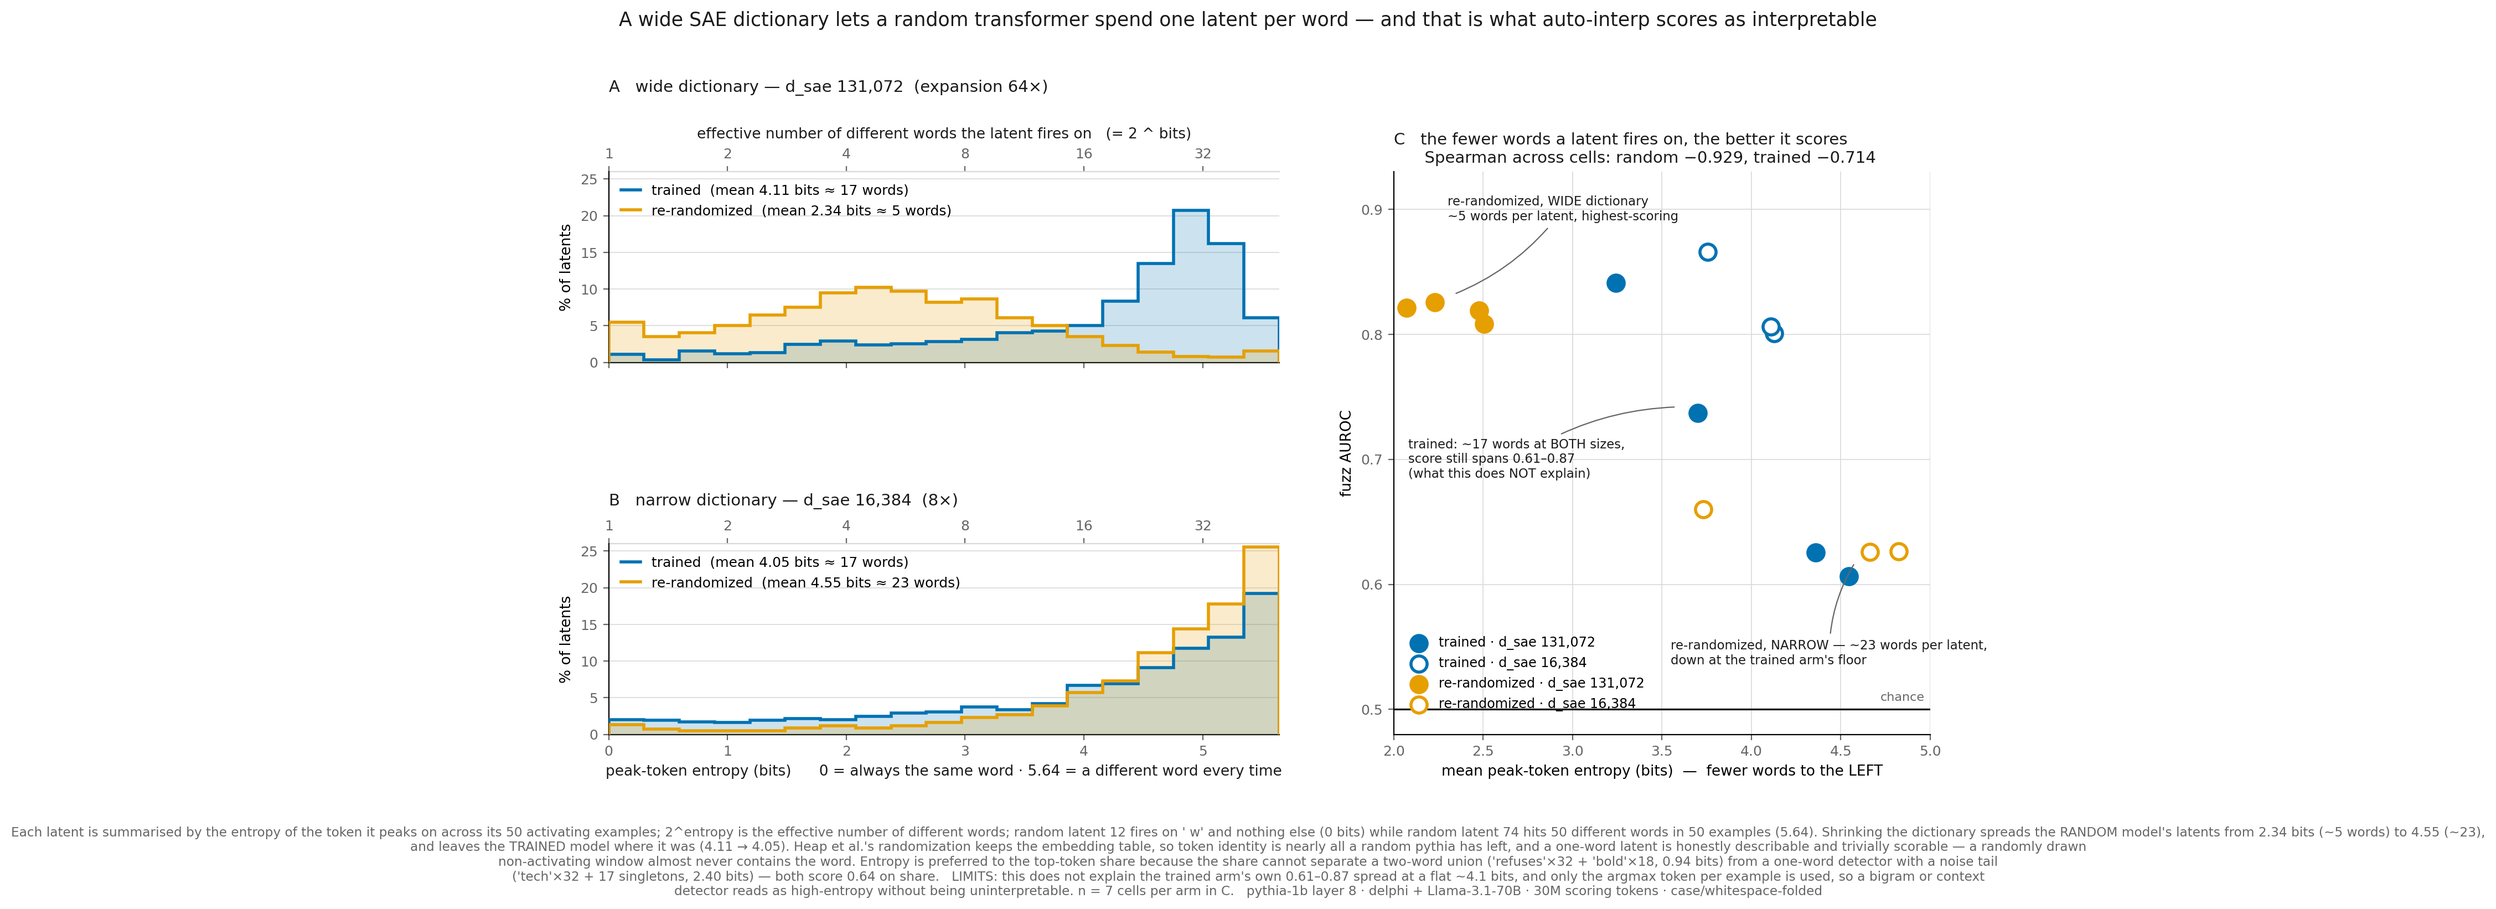
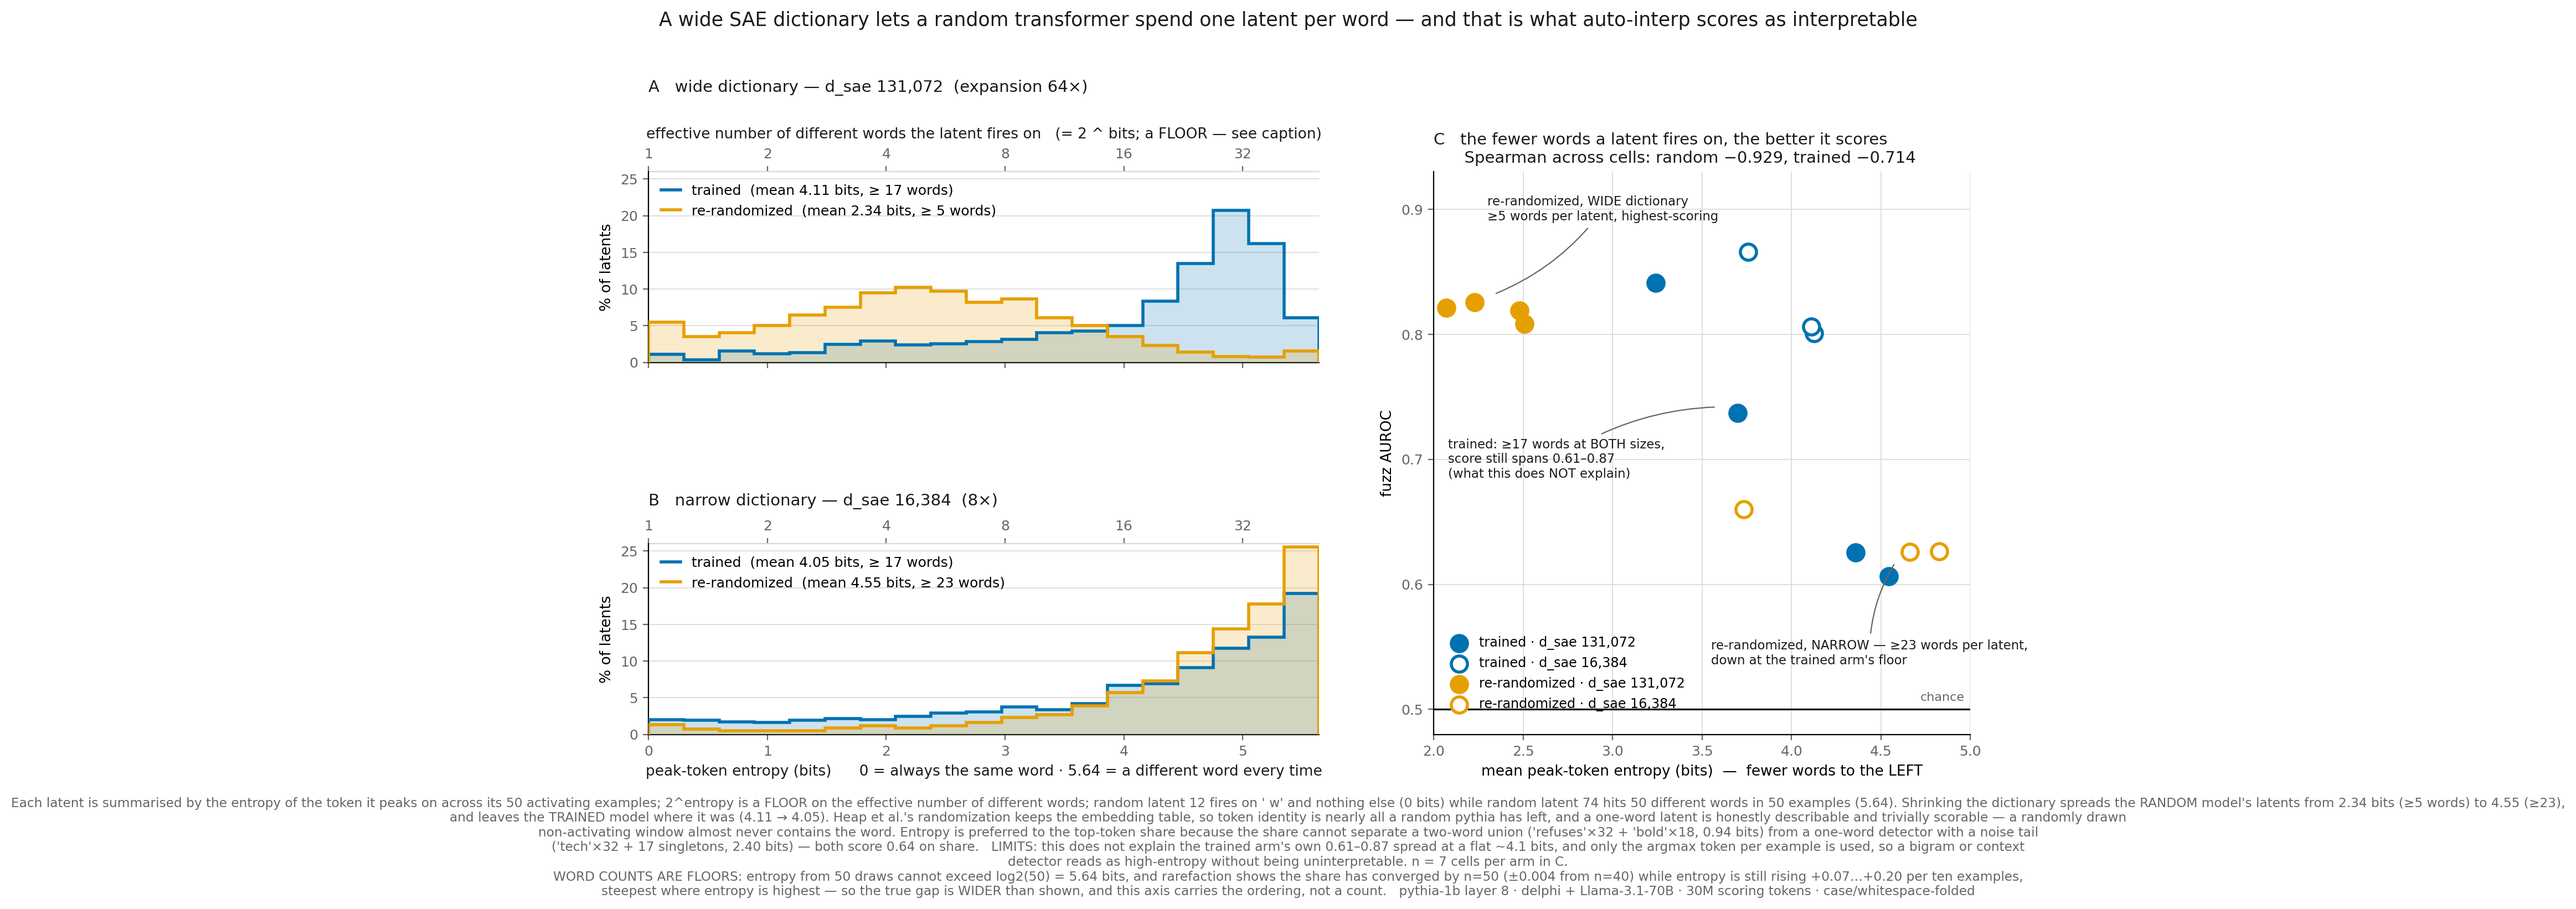
rarefaction: the share has converged at n=50, the entropy has not
Both statistics run on the 50 windows delphi sampled, not on all of a
latent's firings, and the two react to that very differently. Share is
biased UP for a scattered latent (the most common of 50 overstates the true
most common) but the bias dies fast. Entropy is biased DOWN and dies slowly,
because you cannot observe more distinct tokens than you have draws --
log2(50) = 5.64 bits is a hard ceiling whatever the truth is.

Recomputing each latent's statistic from a random n of its 50:

  share    +/-0.004 from n=40 to n=50 in all four blocks -- converged
  entropy  still +0.069 to +0.204 per ten examples, and steepest exactly
           where entropy is highest (rand 16,384 +0.204, rand 131,072 +0.069)

So 2**H is a FLOOR on the effective word count, loosest at the scattered
end. That biases AGAINST the result: the true 131,072-vs-16,384 entropy gap
is wider than the 2.34-to-4.55 measured. But it means the entropy axis
carries the ordering and must never be quoted as a count, and it is the
second reason the share is the safer headline.

plot_token_entropy.py now says "≥ N words" everywhere it said "≈ N words",
labels the top axis as a floor, and states the check in the caption.
token_purity.py gains the rarefaction table; peak-token extraction factored
into peak_pairs/peak_lists so the strength control and rarefaction share it.

diff --git a/SAE_linearmaps/randomized/pythia/plot_token_entropy.py b/SAE_linearmaps/randomized/pythia/plot_token_entropy.py
@@ -28,7 +28,16 @@ one-word latent is honestly describable and trivially scorable. Narrow the dicti
 no room, so its latents blur across ~23 unrelated words and the score falls. The trained model is
 unaffected because its latents were never word detectors.
 
-LIMITS, same as the share figure: this does not explain the TRAINED arm's own AUROC spread
+THE LIMIT THAT IS SPECIFIC TO ENTROPY, and the reason the share figure remains the headline.
+Entropy from 50 draws is biased DOWNWARD -- you can never see more distinct tokens than you have
+examples, so log2(50) = 5.64 bits is a hard ceiling whatever the truth is. Rarefaction (in
+token_purity.py) shows the share has converged by n=50, moving +/-0.004 from n=40, while entropy
+is still climbing +0.069 to +0.204 per ten examples and is steepest exactly where entropy is
+highest. So every word count here is a FLOOR, loosest at the scattered end. That biases AGAINST
+the result -- the true 131,072-vs-16,384 gap is wider than the 2.34-to-4.55 shown -- but it means
+the axis supports the ORDERING and must not be quoted as a count.
+
+LIMITS shared with the share figure: this does not explain the TRAINED arm's own AUROC spread
 (0.606-0.866 at a flat ~4.1 bits), and peak entropy only sees the argmax token per example, so a
 bigram or context detector reads as high-entropy without being uninterpretable.
 
@@ -75,7 +84,7 @@ for ax, dsae, tag, ty in (
         v = pooled(arm, dsae)
         m = sum(v) / len(v)
         ax.stairs(hist_pct(v), EDGES, color=ARM_COLOUR[arm], lw=2.0, zorder=4,
-                  label=f"{ARM_LABEL[arm]}  (mean {m:.2f} bits ≈ {2**m:.0f} words)")
+                  label=f"{ARM_LABEL[arm]}  (mean {m:.2f} bits, ≥ {2**m:.0f} words)")
         ax.stairs(hist_pct(v), EDGES, color=ARM_COLOUR[arm], fill=True, alpha=0.20, zorder=3)
     # Title placed by hand above the secondary axis and its label; set_title(pad=...) collided
     # with the suptitle once the top axis was added.
@@ -96,7 +105,7 @@ for ax, dsae, tag, ty in (
     top.tick_params(colors=MUTED)
     top.spines["top"].set_color(GRID)
     if ax is axA:
-        top.set_xlabel("effective number of different words the latent fires on   (= 2 ^ bits)",
+        top.set_xlabel("effective number of different words the latent fires on   (= 2 ^ bits; a FLOOR — see caption)",
                        fontsize=9.5, color=INK, labelpad=6)
 
 axB.set_xlabel("peak-token entropy (bits)      0 = always the same word · "
@@ -118,11 +127,11 @@ for x, y, arm, dsae in pts:
 LEAD = dict(arrowprops=dict(arrowstyle="-", color=MUTED, lw=0.8, shrinkA=2, shrinkB=6,
                             connectionstyle="arc3,rad=-0.15"))
 for tx, ty, ax_, ay_, txt, ha in (
-        (2.30, 0.900, 2.30, 0.830, "re-randomized, WIDE dictionary\n~5 words per latent, "
+        (2.30, 0.900, 2.30, 0.830, "re-randomized, WIDE dictionary\n≥5 words per latent, "
          "highest-scoring", "left"),
-        (3.55, 0.545, 4.60, 0.622, "re-randomized, NARROW — ~23 words per latent,\n"
+        (3.55, 0.545, 4.60, 0.622, "re-randomized, NARROW — ≥23 words per latent,\n"
          "down at the trained arm's floor", "left"),
-        (2.08, 0.700, 3.62, 0.742, "trained: ~17 words at BOTH sizes,\n"
+        (2.08, 0.700, 3.62, 0.742, "trained: ≥17 words at BOTH sizes,\n"
          "score still spans 0.61–0.87\n(what this does NOT explain)", "left")):
     axC.annotate(txt, xy=(ax_, ay_), xytext=(tx, ty), ha=ha, va="center",
                  fontsize=8.2, color=INK, zorder=6, **LEAD)
@@ -159,10 +168,10 @@ fig.suptitle("A wide SAE dictionary lets a random transformer spend one latent p
              fontsize=12.5, color=INK, y=1.10)
 fig.text(0.5, -0.11,
          f"Each latent is summarised by the entropy of the token it peaks on across its 50 "
-         f"activating examples; 2^entropy is the effective number of different words; random latent 12 fires on "
+         f"activating examples; 2^entropy is a FLOOR on the effective number of different words; random latent 12 fires on "
          f"' w' and nothing else (0 bits) while random latent 74 hits 50 different words in 50 examples (5.64). Shrinking "
-         f"the dictionary spreads the RANDOM model's latents from {hr:.2f} bits (~{2**hr:.0f} "
-         f"words) to {hr2:.2f} (~{2**hr2:.0f}),\nand leaves the TRAINED model where it was "
+         f"the dictionary spreads the RANDOM model's latents from {hr:.2f} bits (≥{2**hr:.0f} "
+         f"words) to {hr2:.2f} (≥{2**hr2:.0f}),\nand leaves the TRAINED model where it was "
          f"({ht:.2f} → {ht2:.2f}). Heap et al.'s randomization keeps the embedding table, so token "
          "identity is nearly all a random pythia has left, and a one-word latent is honestly "
          "describable and trivially scorable — a randomly drawn\nnon-activating window almost "
@@ -171,8 +180,11 @@ fig.text(0.5, -0.11,
          "detector with a noise tail\n('tech'×32 + 17 singletons, 2.40 bits) — both score 0.64 on "
          "share.   LIMITS: this does not explain the trained arm's own 0.61–0.87 spread at a flat "
          "~4.1 bits, and only the argmax token per example is used, so a bigram or context\n"
-         "detector reads as high-entropy without being uninterpretable. n = 7 cells per arm in C.  "
-         " pythia-1b layer 8 · delphi + Llama-3.1-70B · 30M scoring tokens · case/whitespace-folded",
+         "detector reads as high-entropy without being uninterpretable. n = 7 cells per arm in C.\n"
+         "WORD COUNTS ARE FLOORS: entropy from 50 draws cannot exceed log2(50) = 5.64 bits, and "
+         "rarefaction shows the share has converged by n=50 (±0.004 from n=40) while entropy is "
+         "still rising +0.07…+0.20 per ten examples,\nsteepest where entropy is highest — so the true gap is WIDER than shown, and this axis carries the ordering, not a count.   "
+         "pythia-1b layer 8 · delphi + Llama-3.1-70B · 30M scoring tokens · case/whitespace-folded",
          ha="center", fontsize=8.4, color=MUTED)
 
 out = os.path.join(os.path.dirname(os.path.abspath(__file__)), "plots",

diff --git a/SAE_linearmaps/randomized/pythia/token_purity.py b/SAE_linearmaps/randomized/pythia/token_purity.py
@@ -44,6 +44,7 @@ import glob
 import json
 import math
 import os
+import random
 import re
 from collections import Counter
 
@@ -245,9 +246,9 @@ print(f"{'arm':<8} {'d_sae':>9} {'n lat':>6}  {'all 50':>14} {'strongest 25':>14
 print("-" * 92)
 
 
-def by_strength(cell):
-    """per latent: (share_all, share_strong_half, share_weak_half) on folded peak tokens."""
-    rows = []
+def peak_pairs(cell):
+    """per latent: [(peak activation, peak token), ...] over its activating examples."""
+    out = []
     for f in sorted(glob.glob(f"{ROOT}/{cell}/scores/{SCORER}/*.txt")):
         ex = []
         for r in json.load(open(f)):
@@ -257,9 +258,21 @@ def by_strength(cell):
             if not t or not a or len(t) != len(a) or max(a) <= 0:
                 continue
             ex.append((max(a), t[a.index(max(a))]))
-        if len(ex) < MIN_EX:
-            continue
-        ex.sort(key=lambda p: -p[0])
+        if len(ex) >= MIN_EX:
+            out.append(ex)
+    return out
+
+
+def peak_lists(cell):
+    """per latent: the folded peak tokens alone -- what rarefaction resamples."""
+    return [[fold(t) for _, t in ex] for ex in peak_pairs(cell)]
+
+
+def by_strength(cell):
+    """per latent: (share_all, share_strong_half, share_weak_half) on folded peak tokens."""
+    rows = []
+    for ex in peak_pairs(cell):
+        ex = sorted(ex, key=lambda p: -p[0])
         h = len(ex) // 2
         sh = lambda s: Counter(fold(t) for _, t in s).most_common(1)[0][1] / len(s)
         rows.append((sh(ex), sh(ex[:h]), sh(ex[h:])))
@@ -278,3 +291,43 @@ for arm in ("trained", "rand"):
 print("  The strong-weak offset is the SAME size in all four blocks, and the arm x d_sae contrast\n"
       "  survives inside each stratum (random 131,072 - 16,384 is 0.348 among strong firings,\n"
       "  0.347 among weak, 0.325 overall), so the collapse is not a sampling artifact.")
+
+# ---------------------------------------------------------------- rarefaction
+# THE SECOND OBJECTION: 50 examples is a small sample for a distribution over tokens, and the two
+# statistics react to that very differently.
+#   SHARE is biased UP for a scattered latent -- the most common of 50 draws overstates the true
+#   most common probability -- but the bias dies quickly with n.
+#   ENTROPY is biased DOWN and dies slowly, because you can never observe more distinct tokens
+#   than you have draws: log2(50) = 5.64 bits is a hard ceiling regardless of the truth.
+# Recomputing each latent's statistic from a random n of its 50 shows whether either has settled.
+# It has not for entropy, so 2**H must be read as a FLOOR on the effective token count, and most
+# conservatively where H is largest. That biases AGAINST the result -- the true 131,072-vs-16,384
+# entropy gap is wider than the measured one -- but it is why the share is the safer headline.
+print("\n\nRAREFACTION  each latent's statistic recomputed from a random n of its 50 windows\n")
+NS, REPS = (10, 20, 30, 40, 50), 8
+random.seed(0)
+print(f"{'arm':<8} {'d_sae':>9} {'stat':<8} " + "".join(f"{'n=' + str(n):>9}" for n in NS)
+      + f"{'  50 vs 40':>11}")
+print("-" * 84)
+for arm in ("trained", "rand"):
+    for dsae in (131072, 16384):
+        pool = [p for lab, fmt, d in CELLS if d == dsae for p in peak_lists(fmt.format(a=arm))]
+        re_, rs_ = [], []
+        for n in NS:
+            es, ss = [], []
+            for p in pool:
+                for _ in range(REPS if n < 50 else 1):
+                    c = Counter(random.sample(p, n) if n < len(p) else p)
+                    es.append(entropy(list(c.values())))
+                    ss.append(c.most_common(1)[0][1] / n)
+            re_.append(sum(es) / len(es))
+            rs_.append(sum(ss) / len(ss))
+        print(f"{arm:<8} {dsae:>9,} {'entropy':<8} " + "".join(f"{v:>9.2f}" for v in re_)
+              + f"{re_[-1] - re_[-2]:>+11.3f}")
+        print(f"{'':<8} {'':>9} {'share':<8} " + "".join(f"{v:>9.3f}" for v in rs_)
+              + f"{rs_[-1] - rs_[-2]:>+11.3f}")
+    print()
+print("  SHARE has converged: +/-0.004 from n=40 to n=50 in every block, so 50 examples suffice.\n"
+      "  ENTROPY has NOT: still +0.069 to +0.204 per ten examples, steepest exactly where entropy\n"
+      "  is highest. Quote entropy for the ORDERING and quote 2**H as a lower bound, never as a\n"
+      "  count. The share is the statistic that survives this check.")
